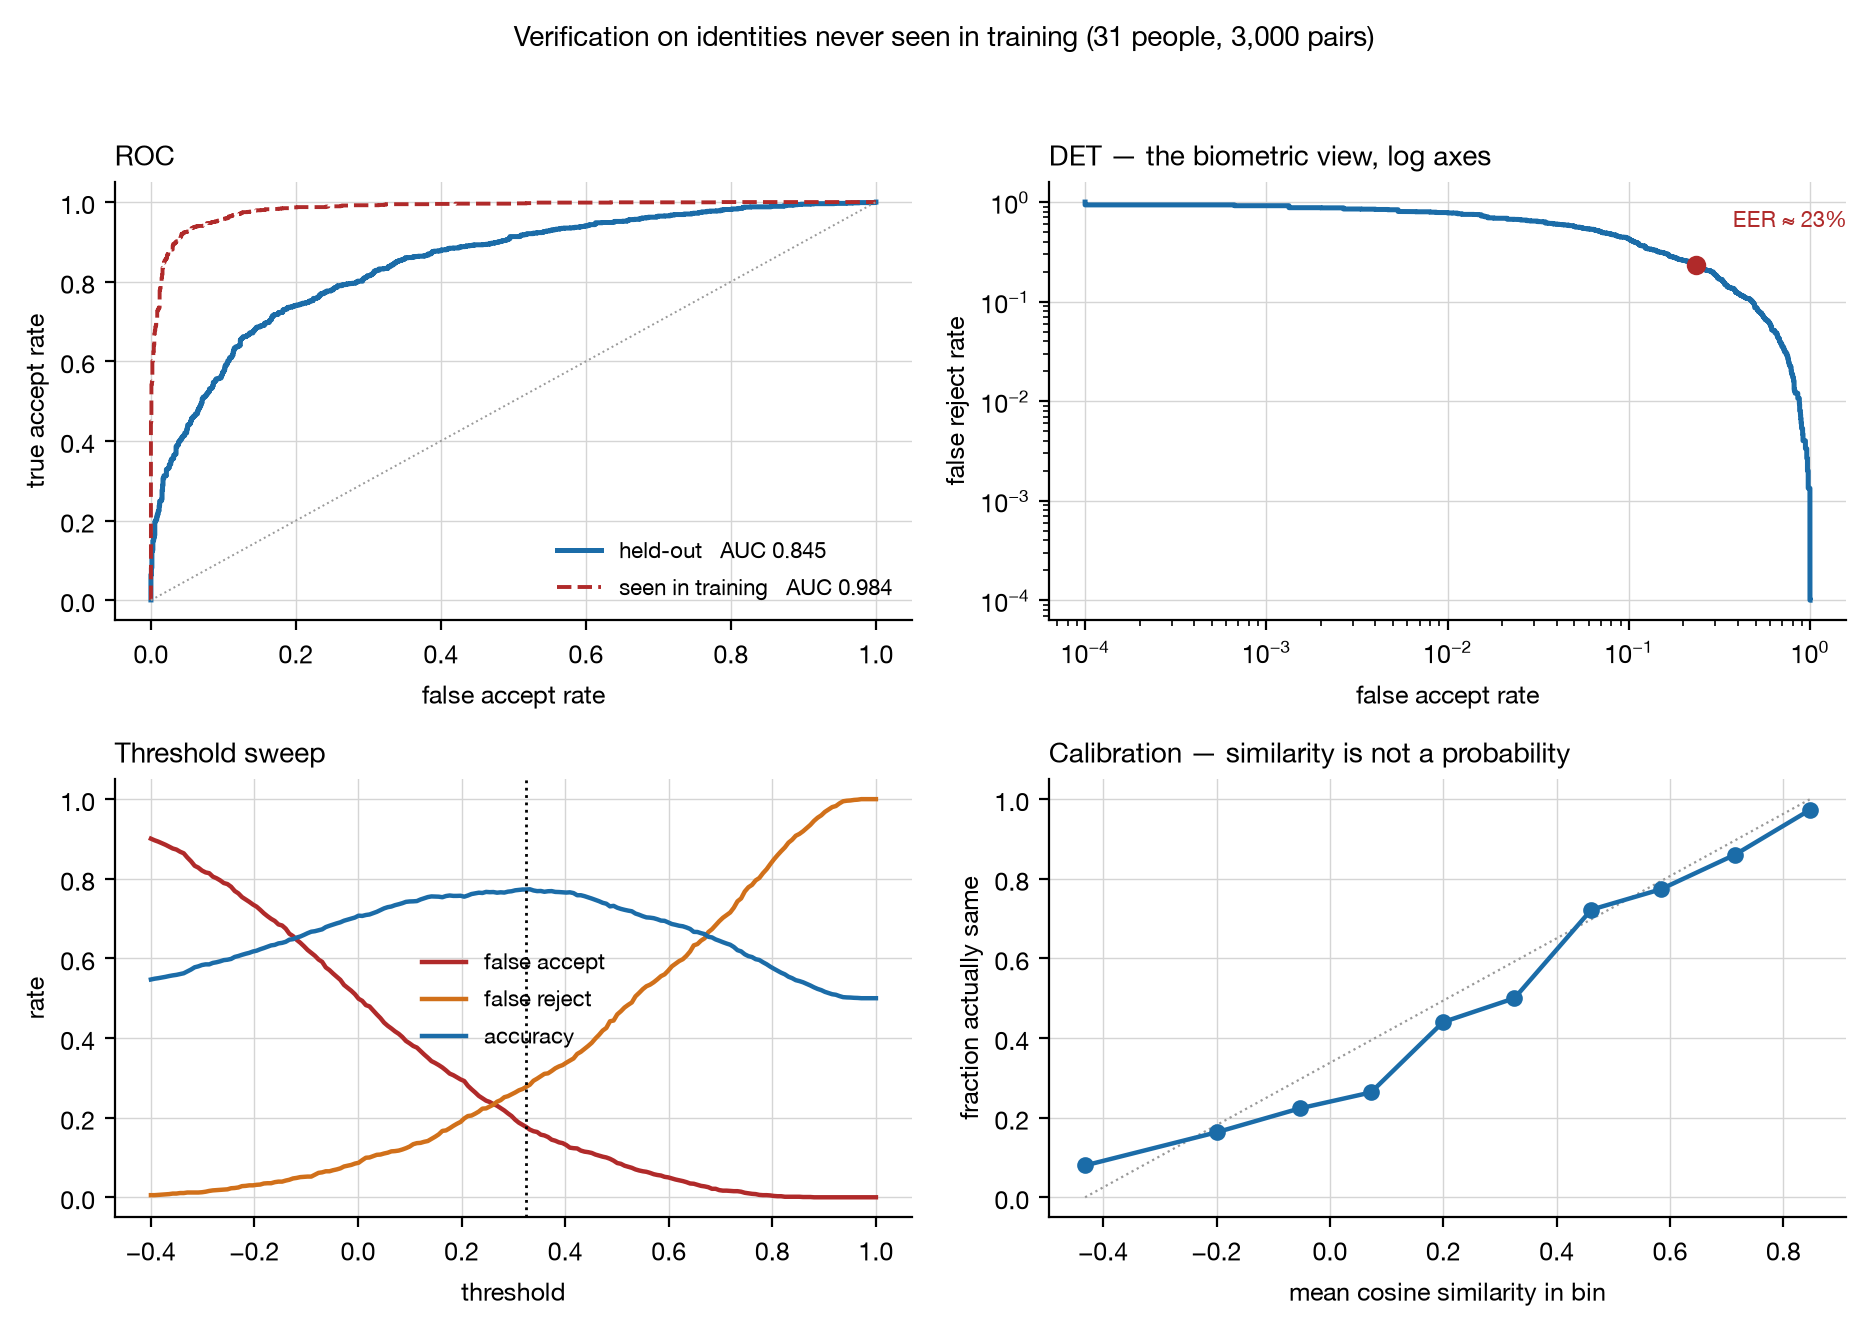
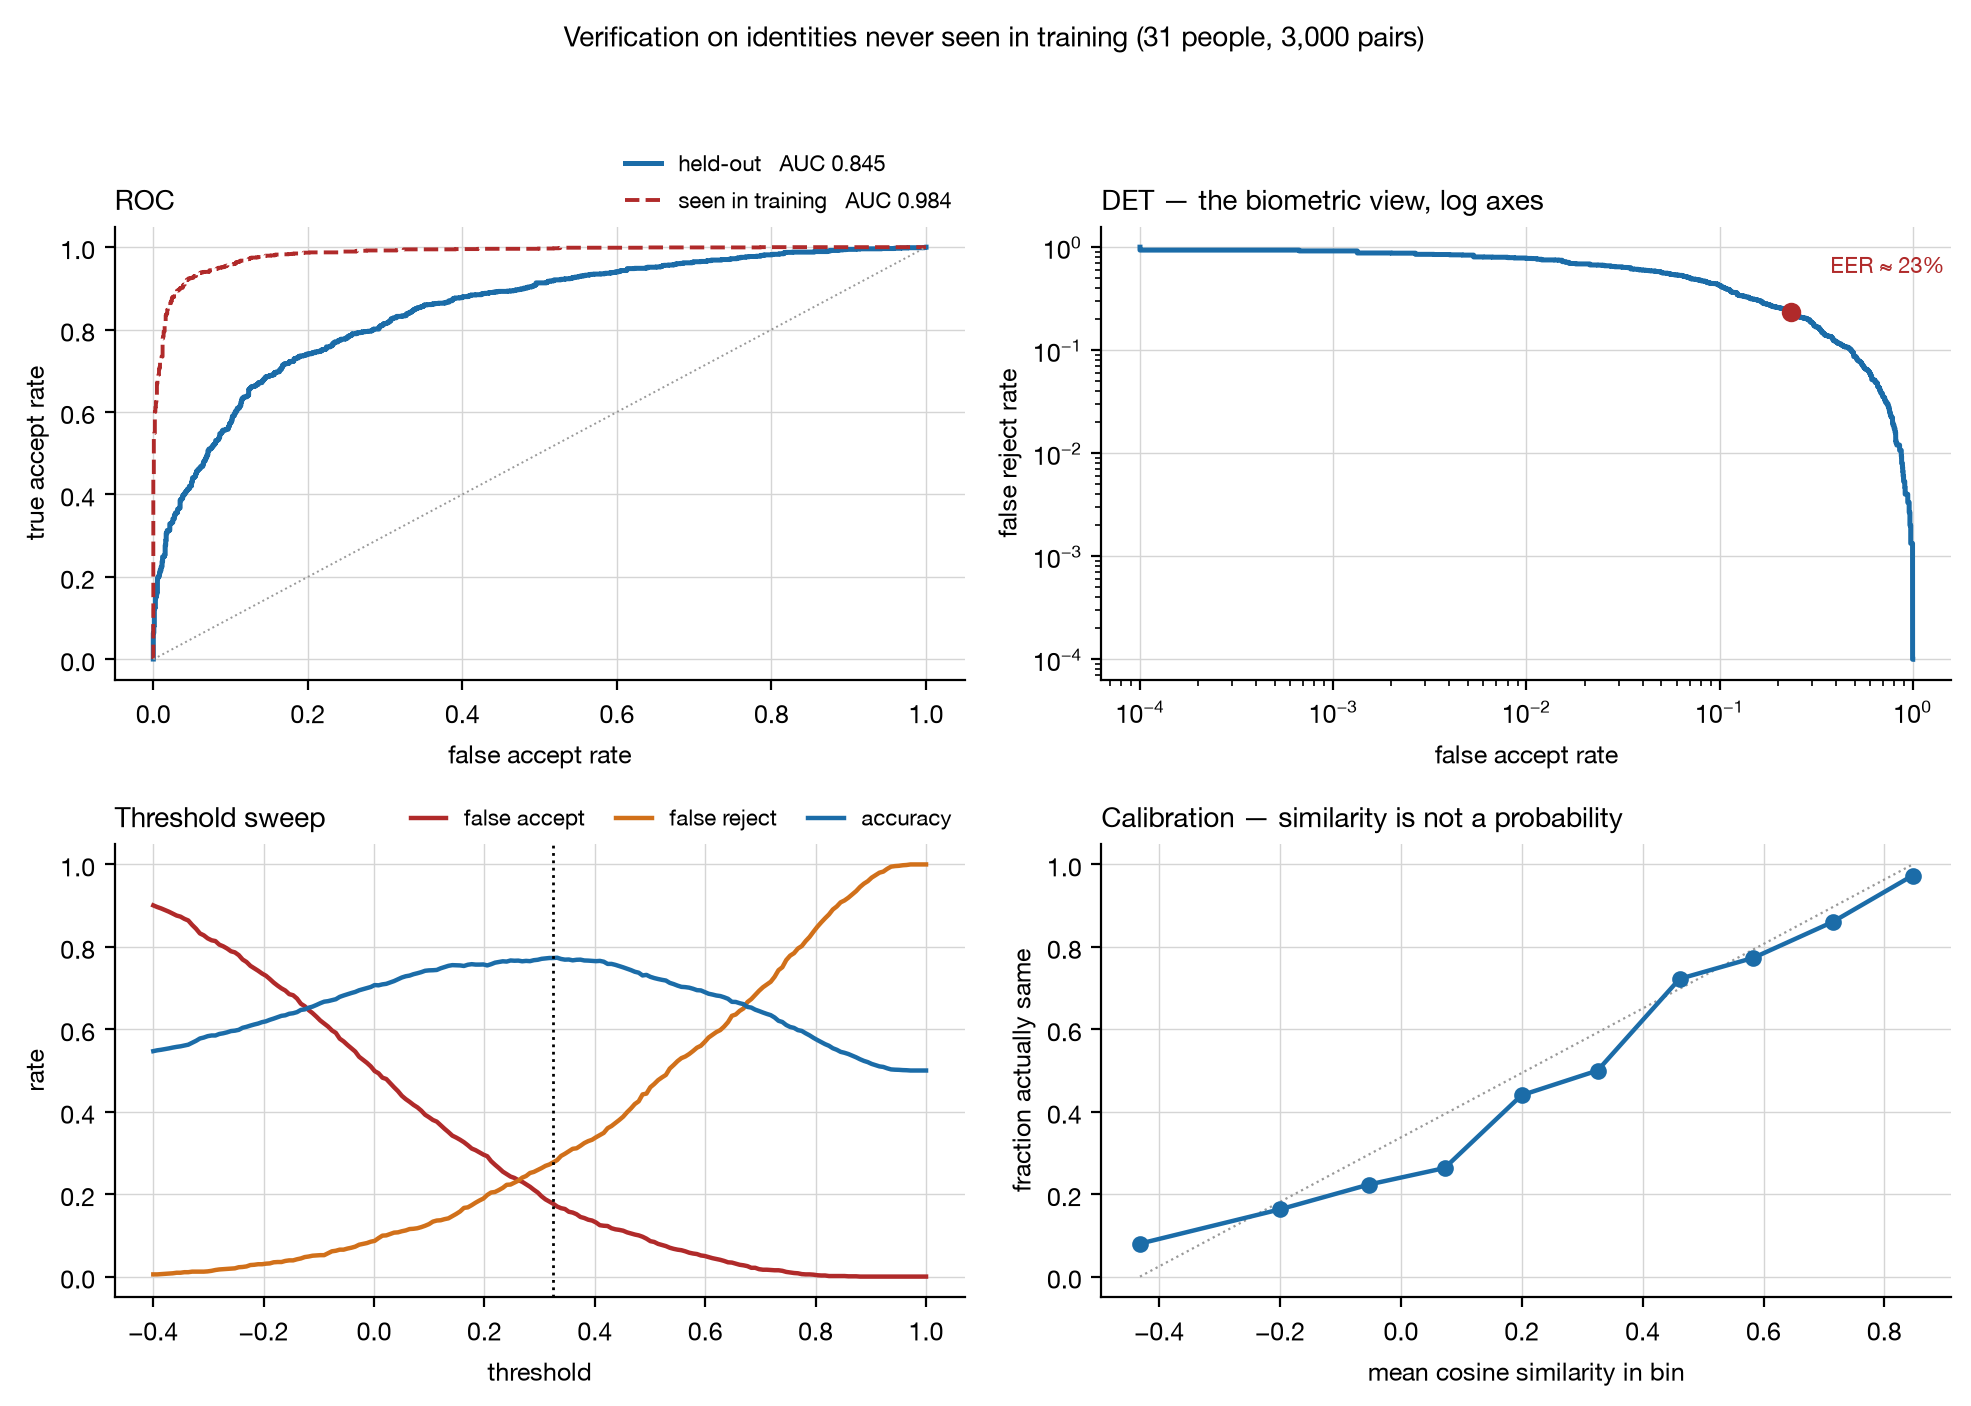
ml: move every legend out of the plot area
Legends were placed 'inside, in the empty corner', which is a bet that the
corner stays empty. It does not. The loss legend sat on the train curve, the
histogram legend sat on the different-person bars, and the threshold-sweep
legend sat across all three of its own lines.

Titles are left-aligned, so the right end of the title row is always free.
Every legend now anchors there, horizontal, outside the axes — which cannot
collide with data no matter what the next run produces.

Same treatment in plot_training.py. Figures given a little more headroom for
the extra row.

diff --git a/ml/plot_all.py b/ml/plot_all.py
@@ -42,6 +42,19 @@ plt.rcParams.update({
 })
 
 
+def leg(ax, ncol=2):
+    """Put the legend on the title row, outside the data area.
+
+    Legends 'inside, in the empty corner' is a bet that the corner stays empty.
+    It does not: the loss curve, the histogram and the threshold sweep each
+    ended up with a legend sitting on the lines it was labelling. Titles here
+    are left-aligned, so the right end of the title row is always free.
+    """
+    ax.legend(loc="lower right", bbox_to_anchor=(1.0, 1.0), ncol=ncol,
+              frameon=False, fontsize=8, borderaxespad=0.2,
+              columnspacing=1.4, handlelength=1.6)
+
+
 def main() -> int:
     H = json.load(open(os.path.join(RUNS, "history.json")))
     E = np.load(os.path.join(RUNS, "eval.npz"))
@@ -53,18 +66,18 @@ def main() -> int:
     s = E["te_scores"]; lab = E["te_labels"].astype(int)
 
     # ------------------------------------------------------ fig 1: training --
-    fig, ax = plt.subplots(2, 2, figsize=(9.5, 6.4))
+    fig, ax = plt.subplots(2, 2, figsize=(10, 6.8))
 
     ax[0, 0].plot(ep, [r["train_loss"] for r in h], lw=1.6, color=BLUE, label="train")
     ax[0, 0].plot(ep, [r["val_loss"] for r in h], lw=1.6, color=ORANGE, label="validation")
     ax[0, 0].set_xlabel("epoch"); ax[0, 0].set_ylabel("cross-entropy")
-    ax[0, 0].set_title("Loss", loc="left"); ax[0, 0].legend()
+    ax[0, 0].set_title("Loss", loc="left"); leg(ax[0, 0])
 
     ax[0, 1].plot(ep, [r["train_acc"] for r in h], lw=1.6, color=BLUE, label="train")
     ax[0, 1].plot(ep, [r["val_acc"] for r in h], lw=1.6, color=ORANGE, label="validation")
     ax[0, 1].set_xlabel("epoch")
     ax[0, 1].set_ylabel(f"{d['train_identities']}-way accuracy")
-    ax[0, 1].set_title("Identity classification", loc="left"); ax[0, 1].legend()
+    ax[0, 1].set_title("Identity classification", loc="left"); leg(ax[0, 1])
 
     ax[1, 0].plot(ep, [r["lr"] for r in h], lw=1.6, color=GREY)
     ax[1, 0].set_xlabel("epoch"); ax[1, 0].set_ylabel("learning rate")
@@ -85,8 +98,8 @@ def main() -> int:
     ax[1, 1].axvline(v["held_out"]["thr"], color="black", lw=1.2,
                      label=f"threshold {v['held_out']['thr']:.2f}")
     ax[1, 1].set_xlabel("cosine similarity"); ax[1, 1].set_ylabel("pairs")
-    ax[1, 1].set_title("Score separation, held-out identities", loc="left")
-    ax[1, 1].legend()
+    ax[1, 1].set_title("Score separation, held-out", loc="left")
+    leg(ax[1, 1], ncol=3)
 
     fig.suptitle(f"Face embedding on {d['images']:,} LFW photographs · "
                  f"{m['params']:,} params · {t['epochs']} epochs · "
@@ -97,7 +110,7 @@ def main() -> int:
     fig.savefig(p1, dpi=200, bbox_inches="tight"); plt.close(fig)
 
     # ---------------------------------------------------- fig 2: evaluation --
-    fig, ax = plt.subplots(2, 2, figsize=(9.5, 6.6))
+    fig, ax = plt.subplots(2, 2, figsize=(10, 7.0))
 
     ax[0, 0].plot(E["te_fpr"], E["te_tpr"], lw=1.8, color=BLUE,
                   label=f"held-out   AUC {v['held_out']['auc']:.3f}")
@@ -105,7 +118,7 @@ def main() -> int:
                   label=f"seen in training   AUC {v['seen_in_training']['auc']:.3f}")
     ax[0, 0].plot([0, 1], [0, 1], lw=0.7, ls=":", color="#999")
     ax[0, 0].set_xlabel("false accept rate"); ax[0, 0].set_ylabel("true accept rate")
-    ax[0, 0].set_title("ROC", loc="left"); ax[0, 0].legend(loc="lower right")
+    ax[0, 0].set_title("ROC", loc="left"); leg(ax[0, 0], ncol=1)
 
     far = np.maximum(E["te_fpr"], 1e-4); frr = np.maximum(1 - E["te_tpr"], 1e-4)
     ax[0, 1].plot(far, frr, lw=1.8, color=BLUE)
@@ -126,7 +139,7 @@ def main() -> int:
     ax[1, 0].plot(ths, ACC, lw=1.6, color=BLUE, label="accuracy")
     ax[1, 0].axvline(v["held_out"]["thr"], color="black", lw=1.0, ls=":")
     ax[1, 0].set_xlabel("threshold"); ax[1, 0].set_ylabel("rate")
-    ax[1, 0].set_title("Threshold sweep", loc="left"); ax[1, 0].legend()
+    ax[1, 0].set_title("Threshold sweep", loc="left"); leg(ax[1, 0], ncol=3)
 
     # Calibration: does a similarity of x mean an x chance of being the same?
     qs = np.quantile(s, np.linspace(0, 1, 11))

diff --git a/ml/plot_training.py b/ml/plot_training.py
@@ -133,7 +133,8 @@ def main() -> int:
     a1.plot(ep, [r["train_loss"] for r in h], lw=1.8, color=C["train"], label="train")
     a1.plot(ep, [r["val_loss"] for r in h], lw=1.8, color=C["val"], label="validation")
     a1.set_ylabel("cross-entropy loss")
-    a1.legend(loc="upper right")
+    a1.legend(loc="lower right", bbox_to_anchor=(1.0, 1.0), ncol=2,
+              frameon=False, fontsize=8, borderaxespad=0.2)
     d = H["dataset"]; m = H["model"]; t = H["training"]
     a1.set_title(
         f"Face embedding trained from scratch on {d['images']:,} real LFW "
@@ -144,7 +145,8 @@ def main() -> int:
     a2.plot(ep, [r["train_acc"] for r in h], lw=1.8, color=C["train"], label="train")
     a2.plot(ep, [r["val_acc"] for r in h], lw=1.8, color=C["val"], label="validation")
     a2.set_xlabel("epoch"); a2.set_ylabel(f"identity accuracy\n({d['train_identities']}-way)")
-    a2.legend(loc="upper left")
+    a2.legend(loc="lower right", bbox_to_anchor=(1.0, 1.0), ncol=2,
+              frameon=False, fontsize=8, borderaxespad=0.2)
 
     # The honest annotation: validation went WORSE before it got better.
     vl = [r["val_loss"] for r in h]
@@ -194,7 +196,8 @@ def main() -> int:
     b1.plot([0, 1], [0, 1], lw=0.8, ls=":", color="#999999")
     b1.set_xlabel("false accept rate"); b1.set_ylabel("true accept rate")
     b1.set_title("Verification ROC, identical image pairs", loc="left")
-    b1.legend(fontsize=8.5, loc="lower right")
+    b1.legend(fontsize=8, loc="lower right", bbox_to_anchor=(1.0, 1.0),
+              ncol=1, frameon=False, borderaxespad=0.2)
 
     # size vs accuracy
     labels = ["mine\n(trained here)", "ArcFace\n(pretrained)"]
